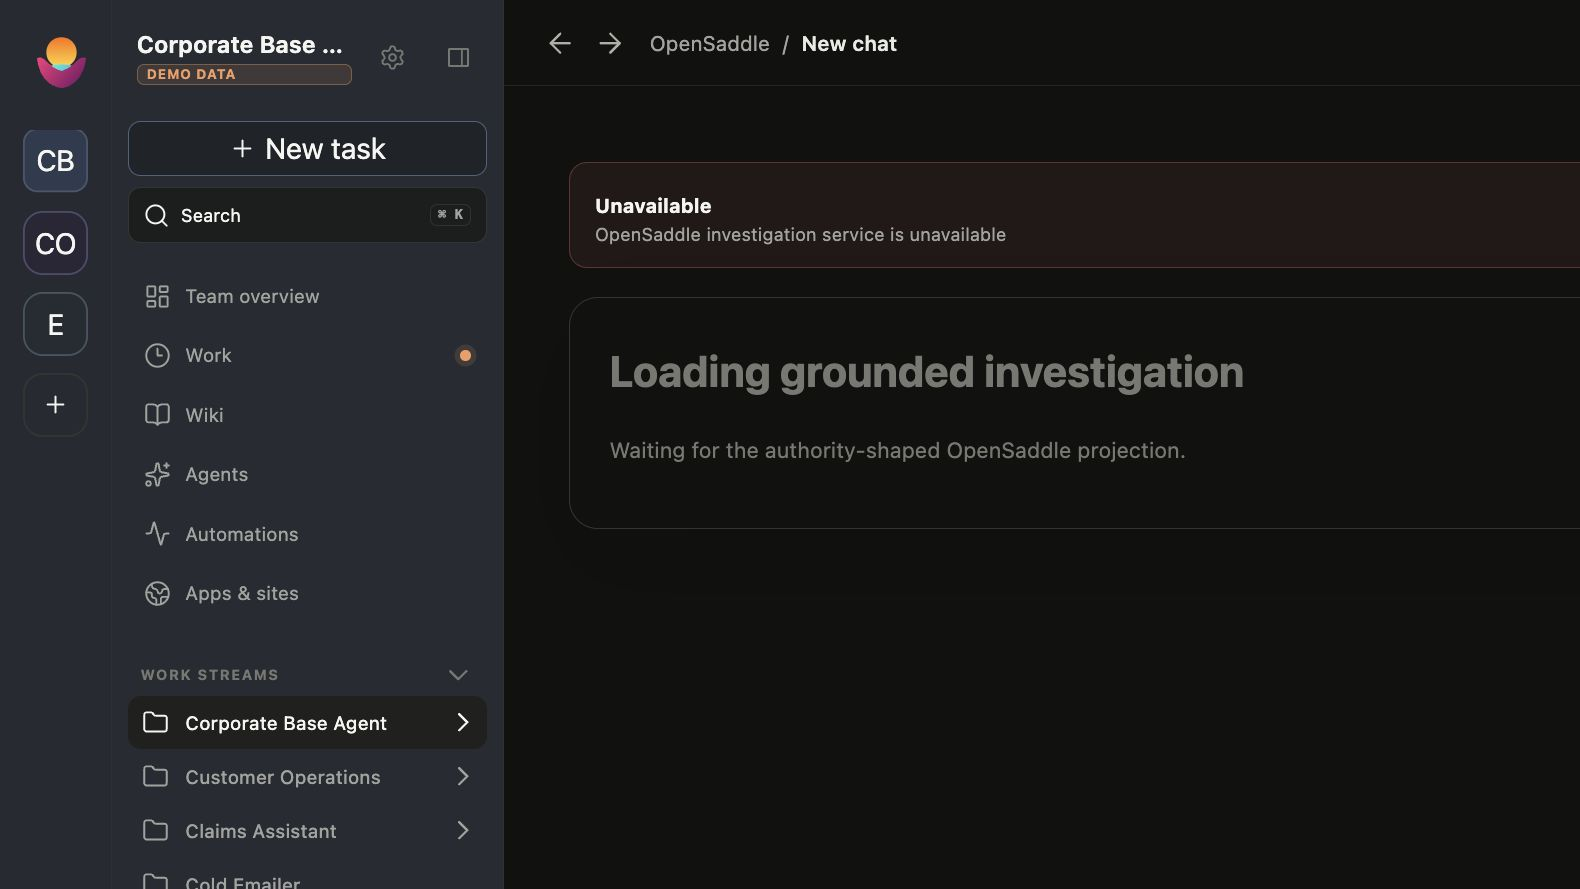
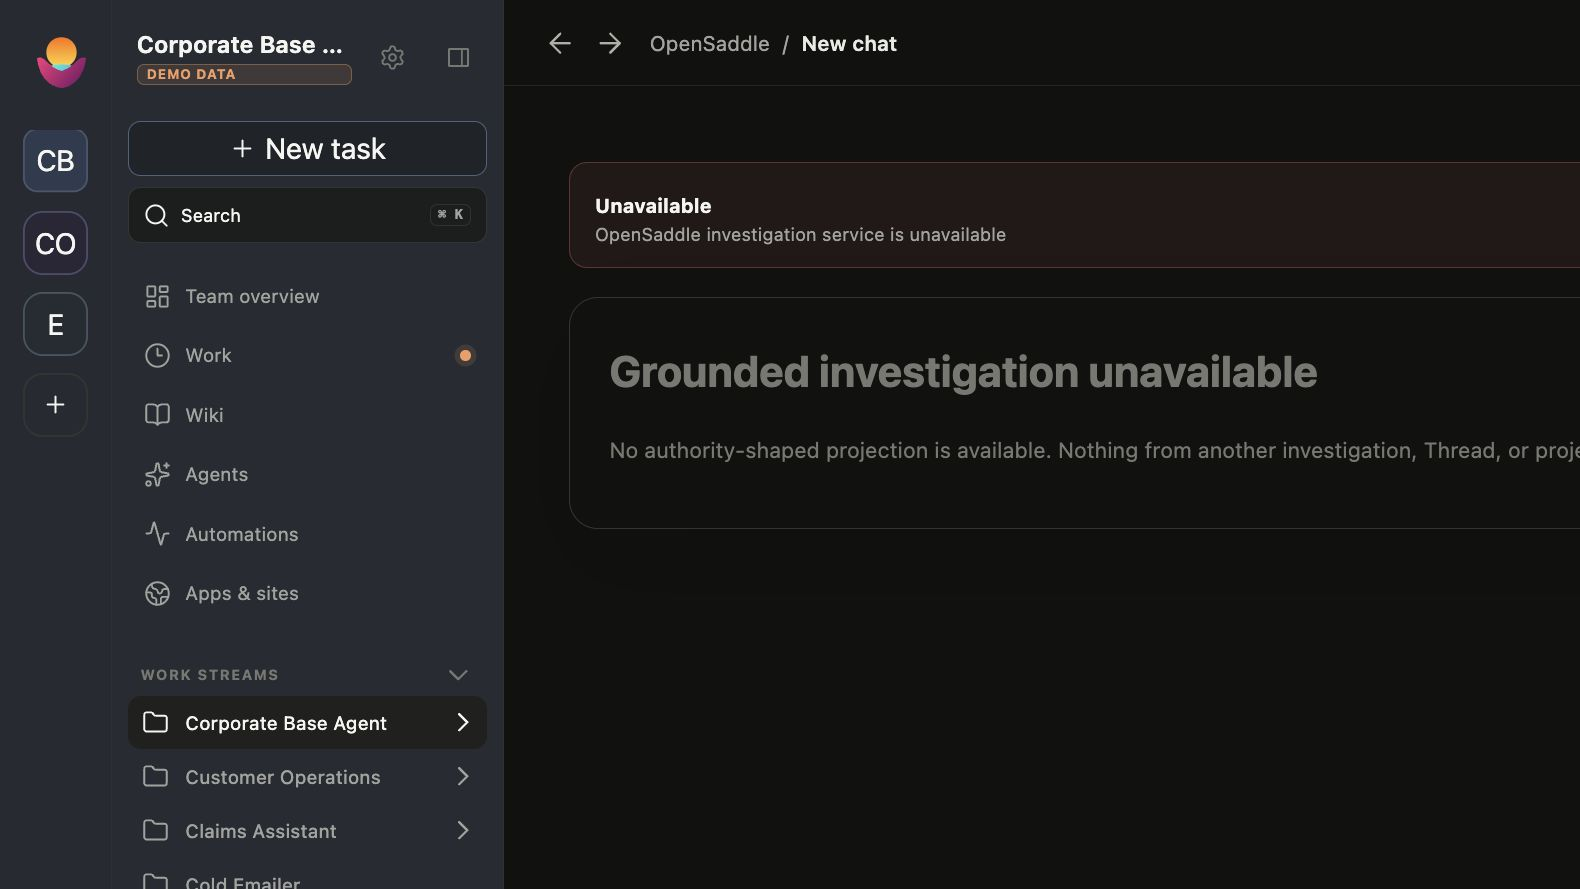
fix: render truthful investigation failure state

Changed region(s): [[0.3722, 0.3948, 0.8373, 0.4556], [0.3722, 0.4859, 1.0, 0.5163]]

diff --git a/test/phase2GoldenJourney.test.ts b/test/phase2GoldenJourney.test.ts
@@ -35,6 +35,18 @@ const F = 'f'.repeat(64)
 const INV = 'inv_b62283b5cc0dba6da8d060381eb817b3'
 const THREAD = 'thread_b62283b5cc0dba6da8d060381eb817b3'
 
+function assertNoExecutionControls(html: string): void {
+  const interactive = /<(button|a)\b([^>]*)>([\s\S]*?)<\/\1>|<input\b([^>]*)>/gi
+  for (const match of html.matchAll(interactive)) {
+    const attributes = `${match[2] ?? ''} ${match[4] ?? ''}`
+    const accessibleAttributes = [...attributes.matchAll(/\b(?:aria-label|title|value)\s*=\s*"([^"]*)"/gi)]
+      .map((attribute) => attribute[1])
+      .join(' ')
+    const content = (match[3] ?? '').replace(/<[^>]*>/g, ' ')
+    assert.doesNotMatch(`${accessibleAttributes} ${content}`, /\b(?:execute|authorize|approve)\b/i)
+  }
+}
+
 async function acceptedFixtures() {
   const [contextBundle, golden] = await Promise.all([
     readFile('src/features/investigation/domain/snapshots/krail.context-brief.v1/bundle.json', 'utf8'),
@@ -263,7 +275,7 @@ test('golden read-only issue journey resumes one Thread, reviews evidence, edits
     'Versioned source links', 'Editable · not authoritative', 'Resolve issue 184 using only pinned evidence',
     'Governed dry run', 'Approval required', 'Proposal only · no execution', 'this screen has no execute control',
   ]) assert.ok(html.includes(checkpoint), `golden journey omitted ${checkpoint}`)
-  assert.doesNotMatch(html, /<(button|a)[^>]*(execute|authorize|approve)[^>]*>/i)
+  assertNoExecutionControls(html)
   assert.equal('execute' in edited.operationProposal, false)
 })
 
@@ -360,6 +372,39 @@ test('stale Context Brief refresh exposes retry, cancel, unavailable, and versio
     assert.ok(html.includes('Reconnect'))
     assert.equal(html.includes('Retry'), failure.retryable)
   }
+})
+
+test('failed investigation without a projection renders a terminal accessible state and never claims to be loading', () => {
+  const failure = { code: 'unavailable' as const, message: 'OpenSaddle investigation service is unavailable', retryable: true }
+  const html = renderToStaticMarkup(React.createElement(GroundedInvestigationThread, {
+    snapshot: { lifecycle: { phase: 'failed', failure } },
+    ...noops,
+  }))
+
+  for (const expected of [
+    'aria-live="polite"',
+    'OpenSaddle investigation service is unavailable',
+    'Grounded investigation unavailable',
+    'No authority-shaped projection is available.',
+    '<button type="button">Retry</button>',
+    '<button type="button">Reconnect</button>',
+  ]) assert.ok(html.includes(expected), expected)
+  assert.equal(html.includes('Loading grounded investigation'), false)
+  assert.equal(html.includes('Waiting for the authority-shaped OpenSaddle projection.'), false)
+  assert.equal(html.includes('Resolve issue 184 safely'), false)
+  assertNoExecutionControls(html)
+})
+
+test('zero-execution-control guard inspects direct labels and accessible attributes', () => {
+  for (const unsafe of [
+    '<button>Execute</button>',
+    '<button><span>Approve</span></button>',
+    '<a href="#">Authorize</a>',
+    '<button aria-label="Execute operation"><span aria-hidden="true">Run</span></button>',
+    '<a href="#" title="Approve proposal">Review</a>',
+    '<input type="button" value="Authorize" />',
+  ]) assert.throws(() => assertNoExecutionControls(unsafe), /execute|approve|authorize/i)
+  assert.doesNotThrow(() => assertNoExecutionControls('<button type="button">Retry</button><a href="#evidence">Review evidence</a>'))
 })
 
 test('unauthorized evidence is filtered before presentation with one opaque omission and no content, identifier, or count leakage', async () => {
@@ -475,7 +520,7 @@ test('dry-run presentation covers approval, denial, budget, validation, and unav
     assert.ok(html.includes(label))
     assert.ok(html.includes(blockerCode))
     assert.ok(html.includes('Proposal only · no execution'))
-    assert.doesNotMatch(html, /<(button|a)[^>]*(execute|authorize|approve)[^>]*>/i)
+    assertNoExecutionControls(html)
   }
   const unavailableHtml = renderToStaticMarkup(React.createElement(GroundedInvestigationThread, {
     snapshot: { lifecycle: { phase: 'settled', projection }, projection },
@@ -484,7 +529,7 @@ test('dry-run presentation covers approval, denial, budget, validation, and unav
   }))
   assert.match(unavailableHtml, /role="alert"/)
   assert.match(unavailableHtml, /unavailable or restricted/)
-  assert.doesNotMatch(unavailableHtml, /<(button|a)[^>]*(execute|authorize|approve)[^>]*>/i)
+  assertNoExecutionControls(unavailableHtml)
 })
 
 test('objective, Context Brief, evidence links, editable plan, and proposal retain keyboard-accessible semantics', async () => {

diff --git a/src/features/investigation/components/GroundedInvestigationThread.tsx b/src/features/investigation/components/GroundedInvestigationThread.tsx
@@ -184,6 +184,7 @@ export function GroundedInvestigationThread({ snapshot, proposal, proposalLoadin
   const [saveError, setSaveError] = useState('')
   useEffect(() => setFields(planFields(projection)), [projection])
   const invalidated = isPlanBindingInvalidated(fields, projection)
+  const failedWithoutProjection = !projection && snapshot.lifecycle.phase === 'failed'
   const context = useMemo(() => {
     if (!projection?.contextBrief) return undefined
     try { return presentContextBrief(projection.contextBrief, projection) } catch { return undefined }
@@ -235,7 +236,12 @@ export function GroundedInvestigationThread({ snapshot, proposal, proposalLoadin
         </section>
 
         <ProposalReview proposal={proposal} invalidated={invalidated} loading={proposalLoading} error={proposalError} />
-      </> : <section className="gi-card gi-empty"><h1 id="gi-title">Loading grounded investigation</h1><p>Waiting for the authority-shaped OpenSaddle projection.</p></section>}
+      </> : <section className="gi-card gi-empty">
+        <h1 id="gi-title">{failedWithoutProjection ? 'Grounded investigation unavailable' : 'Loading grounded investigation'}</h1>
+        <p>{failedWithoutProjection
+          ? 'No authority-shaped projection is available. Nothing from another investigation, Thread, or project is shown.'
+          : 'Waiting for the authority-shaped OpenSaddle projection.'}</p>
+      </section>}
     </article>
   )
 }
